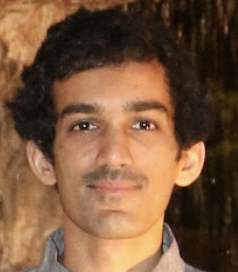
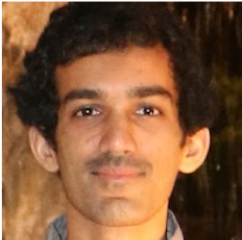
Update speaker info.
Change Jayesh's photo.
Add Lee's photo.
Update David's abstract.

diff --git a/speakers.md b/speakers.md
@@ -80,7 +80,7 @@ But in this talk we'll be going even further--let's explore the unknown reaches 
 
 **Hiding my love inside a MIDI file!**
 
-Ever wanted to communicate a secret message to friend, lover or the national security officer of your country? (yes, I'm talking to you spies from all over the world). You might think end-to-end encryption got you covered, but after 2013, the NSA leaks and all that stuff, you never know! What do you do? You go back to the basics: Steganography! In this talk I want to share with you how you can use the vintage MIDI files we all loved from the 90's to hide any message. Particularly, I will hide the feelings I have for the woman I love! Hopefully, her father the hacker, will not notice my intentions when he intercepts the message...
+Ever wanted to communicate a secret message to friend, lover or the national security officer of your country? (yes, I'm talking to you spies from all over the world). You might think end-to-end encryption got you covered, but after 2013, the NSA leaks and all that stuff, you never know! What do you do? You go back to the basics: Steganography! In this talk I want to share with you the basics of steganography and how you can use use it to hide messages in the vintage MIDI files we all loved from the 90's. More specifically, we are going to hide an audio message within the channels, patterns and events of a MIDI file. Finally, we will decode the message and listen to it!
 
 **David** loves to help people realise that hard things are not so hard with a smile and hard work. He also cares a lot about the wellbeing of people in this fast-paced tech world. He believes that people who understand technology should use it with ethics and moral and that caring about your user is more important than the money you put in your pocket.
 
@@ -177,7 +177,7 @@ As a senior developer, he likes to share his knowledge and experience with other
 
 Virtual machines are much simpler to build than they seem! I'll show how to build a complete virtual machine on Linux using the /dev/kvm interface, load and run code, and even implement your own virtual devices using virtio! I'll explain the interface, and show some libraries in Rust that help you build more complex virtual machines. By the end of the talk, you'll not only know the foundations of cloud computing, but you'll have ideas for other novel uses of virtualization as well!
 
-**Josh Triplett** hacks on system software, including Rust, virtual machines, the Linux kernel, X, Git, Sparse, Debian, Chrome OS, and firmware. Josh enjoys using software for unconventional purposes, such as porting Python to GRUB2. Josh has previously presented at [linux.conf.au](http://linux.conf.au/), Linux Plumbers Conference, Embedded Linux Conference, LinuxCon, RustConf, PyCon, Kernel Summit, Open Source Bridge, and the USENIX Annual Technical Conference.
+**Josh Triplett** hacks on system software, including Rust, virtual machines, the Linux kernel, X, Git, Sparse, Debian, Chrome OS, and firmware. Josh enjoys using software for unconventional purposes, such as porting Python to GRUB2. Josh has previously presented at linux.conf.au, Linux Plumbers Conference, Embedded Linux Conference, LinuxCon, RustConf, PyCon, Kernel Summit, Open Source Bridge, and the USENIX Annual Technical Conference.
 
 ---
 
@@ -211,18 +211,17 @@ Follow me on a journey full of discovery, gifs of mice sending telegrams, oscill
 
 ---
 
-<!---
 <a name="lee-butterman" id="lee-butterman"></a>
 <img src="images/speakers/lee-butterman.png" alt="Lee Butterman" class="speaker-img" />
--->
+
 
 ### Lee Butterman
 
 **Poeta Ex Machina! How To Teach Computers To Chant Latin Poetry!**
 
-We don't often hear Latin poetry! And there are lots of programs designed to synthesize human voices! We piece together what we know of how Latin poetry was sung and chanted to make a web app that recites Latin poetry on demand! We can start with freely available concatenative synthesis,  with a few building blocks: determining basic pitch by word accent and volume of air in the lungs, freely available human voices from many languages, and a few hundred lines of code to glue it together. There will be audio from many different types of speech synthesis, and the web app is live at poetaexmachina.net!
+We don't often hear Latin poetry! And there are lots of programs designed to synthesize human voices! We can piece together what we infer of how Latin poetry was pronounced and chanted to make a web app that recites Latin poetry on demand! We can start with freely available concatenative synthesis, with a few building blocks: determining basic pitch by word accent and volume of air in the lungs, freely available human voices from many languages, and a few hundred lines of code to glue it together. There will be audio from many different types of speech synthesis, and the web app is live at [poetaexmachina.net](http://poetaexmachina.net/)!
 
-**Lee Butterman** is a programmer and an enthusiast of Latin and Greek. He created the first text-to-speech engine for Latin, poetaexmachina.net, and his website nodictionaries.com has helped countless students read Latin over the last decade. He lives in California.
+**Lee Butterman** is a programmer and an enthusiast of Latin and Greek. He created the first text-to-speech engine for Latin, [poetaexmachina.net](http://poetaexmachina.net/), and his website [nodictionaries.com](http://nodictionaries.com/) has helped countless students read Latin over the last decade. He lives in California.
 
 ---
 
